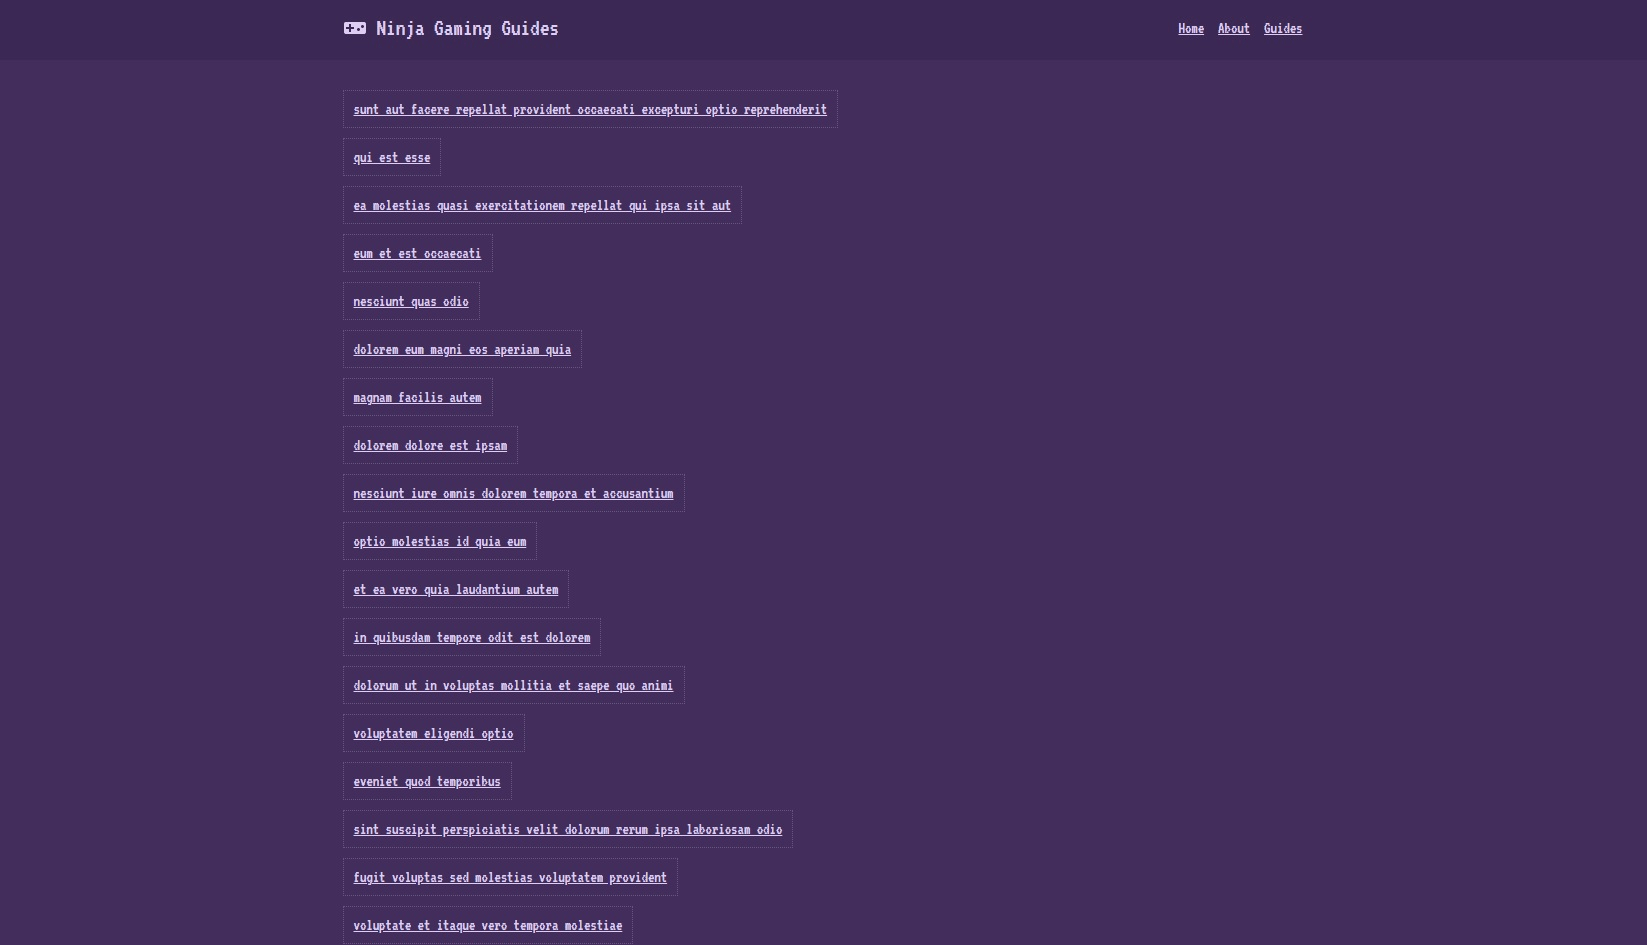
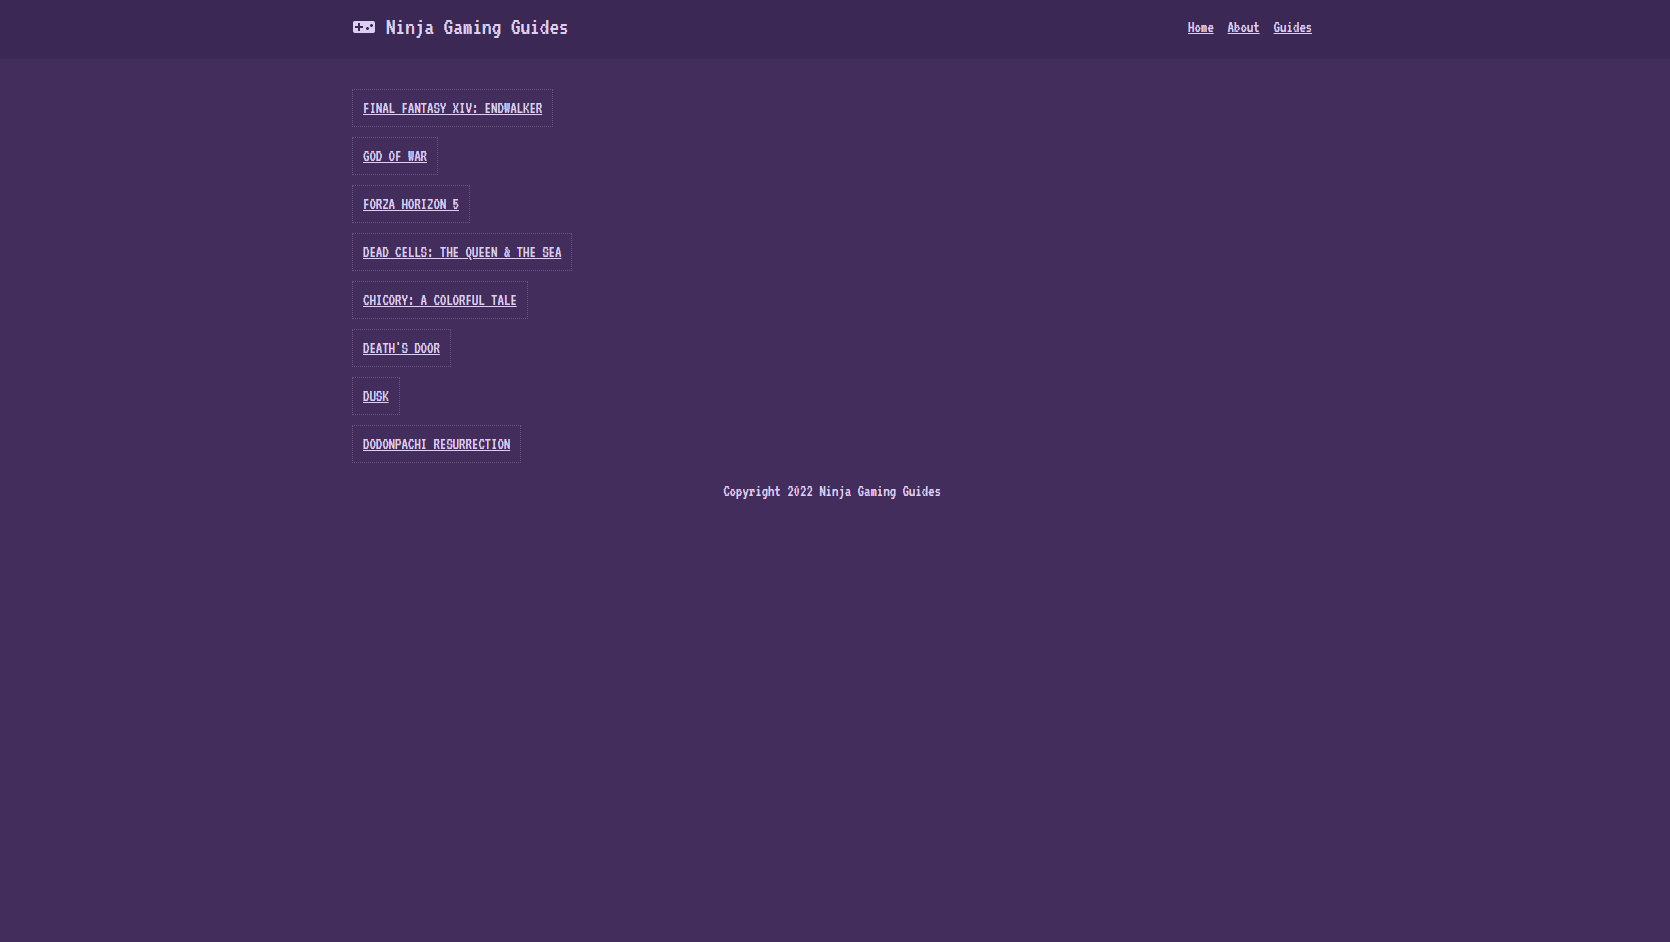
add api routes

diff --git a/03-ninja-gaming-reviews/src/routes/guides/[id].json.js b/03-ninja-gaming-reviews/src/routes/guides/[id].json.js
@@ -1,0 +1,56 @@
+export async function get({ params }) {
+  // connect to db & get data
+  // data is coming from https://www.metacritic.com/
+  const guides = [
+    {
+      id: 1,
+      title: "FINAL FANTASY XIV: ENDWALKER",
+      body: "Endwalker is the fourth expansion pack for FINAL FANTASY XIV Online. Experience the climax of the Hydaelyn and Zodiark story, and encounter an even greater calamity than ever before as you travel to the far reaches of Hydaelyn and even to the moon.",
+    },
+    {
+      id: 2,
+      title: "GOD OF WAR",
+      body: "The God of War has changed... and this is not the Kratos you know. A difficult and unfamiliar road awaits as you explore a stunning retelling of a classic story. Join Kratos as he adventures through a deep and reflective journey of growth, violence and the desire to become a better man for the sake of his son. In a world of monsters, dragons and gods, the weight of responsibility rests heavy on your shoulders -- and when your life is filled with blood and chaos, how can you prevent the mistakes of the past in order to protect your future?",
+    },
+    {
+      id: 3,
+      title: "FORZA HORIZON 5",
+      body: "Your Ultimate Horizon Adventure awaits! Explore the vibrant and ever-evolving open world landscapes of Mexico with limitless, fun driving action in hundreds of the world’s greatest cars.",
+    },
+    {
+      id: 4,
+      title: "DEAD CELLS: THE QUEEN & THE SEA",
+      body: "The Queen & The Sea DLC takes place within two brand new Biomes: The Infested Shipwreck and The Lighthouse. Parallel to the High Peak Castle and Throne Room levels, the new Biomes introduce players to a rotten shipwreck where you will be hunted by eldritch horrors (of course) through the bowels of this spooky and haunted old vessel. The second Biome, The Lighthouse, introduces vertical exploration of a soaring tower in which players will scramble upward as fast as they can to outrun rising flames while simultaneously fending off highly skilled warriors who want nothing more than to end your run. This final Biome is as epic and refreshing as it is challenging.",
+    },
+    {
+      id: 5,
+      title: "CHICORY: A COLORFUL TALE",
+      body: "Something terrible happened. Chicory, superstar artist and wielder of the Brush, is missing, and all the color in the land vanished with her. It's up to you, Chicory's number one fan, to pick up the Brush and fill in for her. It's a big job but you're ready for it! Probably!",
+    },
+    {
+      id: 6,
+      title: "DEATH'S DOOR",
+      body: "Reaping souls of the dead and punching a clock might get monotonous but it's honest work for a Crow. The job gets lively when your assigned soul is stolen and you must track down a desperate thief to a realm untouched by death - where creatures grow far past their expiry and overflow with greed and power.",
+    },
+    {
+      id: 7,
+      title: "DUSK",
+      body: "A retro FPS that looks and feels like the 90s. Inspired by Quake, Heretic, Hexen, Half-Life and Redneck Rampage.",
+    },
+    {
+      id: 8,
+      title: "DODONPACHI RESURRECTION",
+      body: 'Who said you could have a "blissful death"? Experience the explosive shooter action of DoDonPachi Resurrection!',
+    },
+  ];
+  const guide = guides.find((g) => g.id == params.id);
+  if (guide) {
+    return {
+      status: 200,
+      body: { guide },
+    };
+  }
+  return {
+    status: 404,
+  };
+}

diff --git a/03-ninja-gaming-reviews/src/routes/guides/index.json.js b/03-ninja-gaming-reviews/src/routes/guides/index.json.js
@@ -1,0 +1,50 @@
+export async function get() {
+  // connect to db & get data
+  // data is coming from https://www.metacritic.com/
+  const guides = [
+    {
+      id: 1,
+      title: "FINAL FANTASY XIV: ENDWALKER",
+      body: "Endwalker is the fourth expansion pack for FINAL FANTASY XIV Online. Experience the climax of the Hydaelyn and Zodiark story, and encounter an even greater calamity than ever before as you travel to the far reaches of Hydaelyn and even to the moon.",
+    },
+    {
+      id: 2,
+      title: "GOD OF WAR",
+      body: "The God of War has changed... and this is not the Kratos you know. A difficult and unfamiliar road awaits as you explore a stunning retelling of a classic story. Join Kratos as he adventures through a deep and reflective journey of growth, violence and the desire to become a better man for the sake of his son. In a world of monsters, dragons and gods, the weight of responsibility rests heavy on your shoulders -- and when your life is filled with blood and chaos, how can you prevent the mistakes of the past in order to protect your future?",
+    },
+    {
+      id: 3,
+      title: "FORZA HORIZON 5",
+      body: "Your Ultimate Horizon Adventure awaits! Explore the vibrant and ever-evolving open world landscapes of Mexico with limitless, fun driving action in hundreds of the world’s greatest cars.",
+    },
+    {
+      id: 4,
+      title: "DEAD CELLS: THE QUEEN & THE SEA",
+      body: "The Queen & The Sea DLC takes place within two brand new Biomes: The Infested Shipwreck and The Lighthouse. Parallel to the High Peak Castle and Throne Room levels, the new Biomes introduce players to a rotten shipwreck where you will be hunted by eldritch horrors (of course) through the bowels of this spooky and haunted old vessel. The second Biome, The Lighthouse, introduces vertical exploration of a soaring tower in which players will scramble upward as fast as they can to outrun rising flames while simultaneously fending off highly skilled warriors who want nothing more than to end your run. This final Biome is as epic and refreshing as it is challenging.",
+    },
+    {
+      id: 5,
+      title: "CHICORY: A COLORFUL TALE",
+      body: "Something terrible happened. Chicory, superstar artist and wielder of the Brush, is missing, and all the color in the land vanished with her. It's up to you, Chicory's number one fan, to pick up the Brush and fill in for her. It's a big job but you're ready for it! Probably!",
+    },
+    {
+      id: 6,
+      title: "DEATH'S DOOR",
+      body: "Reaping souls of the dead and punching a clock might get monotonous but it's honest work for a Crow. The job gets lively when your assigned soul is stolen and you must track down a desperate thief to a realm untouched by death - where creatures grow far past their expiry and overflow with greed and power.",
+    },
+    {
+      id: 7,
+      title: "DUSK",
+      body: "A retro FPS that looks and feels like the 90s. Inspired by Quake, Heretic, Hexen, Half-Life and Redneck Rampage.",
+    },
+    {
+      id: 8,
+      title: "DODONPACHI RESURRECTION",
+      body: 'Who said you could have a "blissful death"? Experience the explosive shooter action of DoDonPachi Resurrection!',
+    },
+  ];
+  return {
+    status: 200,
+    body: { guides },
+  };
+}

diff --git a/03-ninja-gaming-reviews/src/routes/guides/[id].svelte b/03-ninja-gaming-reviews/src/routes/guides/[id].svelte
@@ -3,8 +3,10 @@
   export async function load({ fetch, params }) {
     // await new Promise((resolve) => setTimeout(resolve, 1000));
     const id = params.id;
-    const res = await fetch(`https://jsonplaceholder.typicode.com/posts/${id}`);
-    const guide = await res.json();
+    // const res = await fetch(`https://jsonplaceholder.typicode.com/posts/${id}`);
+    // const guide = await res.json();
+    const res = await fetch(`/guides/${id}.json`);
+    const { guide } = await res.json();
     // console.log(guides[0]);
     // console.log(window) //server-side error
     if (res.ok) {

diff --git a/03-ninja-gaming-reviews/src/routes/guides/index.svelte b/03-ninja-gaming-reviews/src/routes/guides/index.svelte
@@ -1,8 +1,10 @@
 <script context="module">
   // will run server-side and client-side
   export async function load({ fetch }) {
-    const res = await fetch("https://jsonplaceholder.typicode.com/posts");
-    const guides = await res.json();
+    // const res = await fetch("https://jsonplaceholder.typicode.com/posts");
+    // const guides = await res.json();
+    const res = await fetch("/guides.json");
+    const {guides} = await res.json();
     // console.log(guides[0]);
     // console.log(window) //server-side error
     if (res.ok) {

diff --git a/03-ninja-gaming-reviews/src/lib/title.svelte b/03-ninja-gaming-reviews/src/lib/title.svelte
@@ -2,14 +2,17 @@
   export let title = "Ninja Gaming";
 </script>
 
-<div class="title">
-  <img src="/controller.svg" alt="Ninja Gaming logo" />
-  <h1>{title}</h1>
+<div>
+  <a href="/" class="title"
+    ><img src="/controller.svg" alt="Ninja Gaming logo" />
+    <h1>{title}</h1></a
+  >
 </div>
 
 <style>
   .title {
     display: flex;
+    text-decoration: none;
   }
   .title img {
     display: inline-block;

diff --git a/03-ninja-gaming-reviews/README.md b/03-ninja-gaming-reviews/README.md
@@ -18,6 +18,7 @@ A basic website using SvelteKit.
 - fetching data with server-side and client-side renderings.
 - handling dynamic routes and redirects.
 - pre-fetching data and adding custom error pages.
+- using API routes.
 - deploying to Vercel.
 
 Based on [SvelteKit Crash Course Tutorial](https://www.youtube.com/playlist?list=PL4cUxeGkcC9hpM9ARM59Ve3jqcb54dqiP) by Shaun Pelling - The Net Ninja (2022).

diff --git a/README.md b/README.md
@@ -82,6 +82,7 @@ A basic website using SvelteKit.
 - fetching data with server-side and client-side renderings.
 - handling dynamic routes and redirects.
 - pre-fetching data and adding custom error pages.
+- using API routes.
 - deploying to Vercel.
 
 Based on [SvelteKit Crash Course Tutorial](https://www.youtube.com/playlist?list=PL4cUxeGkcC9hpM9ARM59Ve3jqcb54dqiP) by Shaun Pelling - The Net Ninja (2022).
